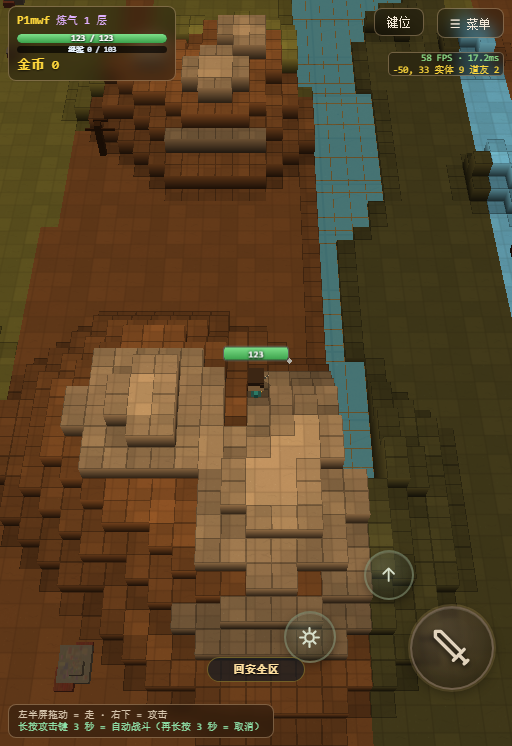
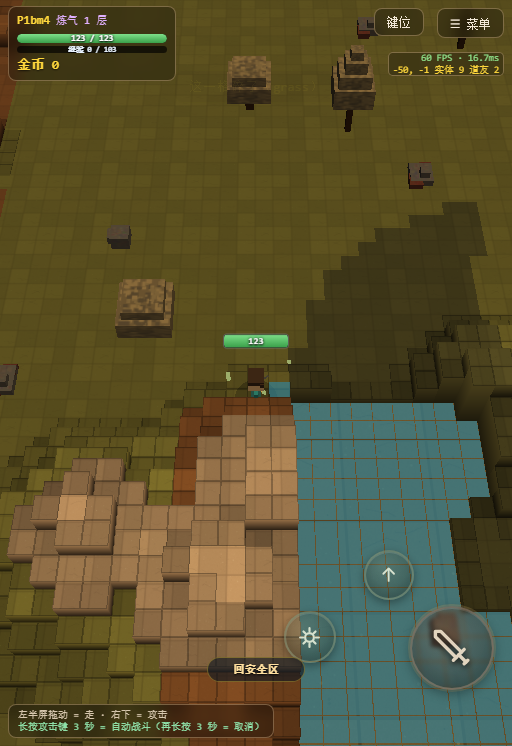
the spear throws what it hits into the air
Five percent at tier zero, rising to seventeen, and on trigger the target leaves the ground:
six levels up, one and a half seconds in the air, then down. Landing hits everything within
two metres, including whatever it landed on, using the same damage as the swing that launched
it.

The mob carries two new fields for this, and the landing damage is stored there rather than
passed through a queue, because the mob's own tick is what brings it down.

Both ends are broadcast - the launch so other players see it go up, the landing so everyone
within forty metres hears the impact. The landing reuses the footstep sound, which is already
the impact sound for everything else.

diff --git a/web/platform/web.js b/web/platform/web.js
@@ -5154,6 +5154,19 @@ function wsOnMessage(raw) {
     /* ★★★ round398（用户："这些动画要做同步，不然别人看不到"）★★★
        ★ 服务端现在会把特效广播给周围 ✗ 带上 by = 谁在放 ✓
        ★ 不是我就记到那个玩家身上 ✗ 渲染时按他的状态播 ✓ */
+    /* ★ round404（用户："长枪挑飞，落地加落地音效"）*/
+    if (d.kind === 'launch') {
+      if (typeof NET !== 'undefined' && NET.rmobs && NET.rmobs[d.mid]) {
+        NET.rmobs[d.mid].flyUntil = performance.now() + 1500;
+        NET.rmobs[d.mid].flyH = 6 * 0.62;
+      }
+      return;
+    }
+    if (d.kind === 'land') {
+      if (typeof sfx === 'function') { sfx('land', 1.0); }
+      if (typeof hitFlash === 'function') { hitFlash(+d.x, 0.4, +d.z, true); }
+      return;
+    }
     /* ★ round400：别人打的伤害 → 弹一个灰色数字 */
     if (d.kind === 'dmg') {
       var _dmgTxt = String(+d.v || 0) + (d.crit ? ' 暴击' : '');

diff --git a/web/core/game.js b/web/core/game.js
@@ -4786,7 +4786,12 @@ function netUpdate(dt) {
       var _k = Math.min(1, dt * 22);
       rm.g.position.x += (rx - rm.g.position.x) * _k;
       rm.g.position.z += (rz - rm.g.position.z) * _k;
-      rm.g.position.y = _jy;
+      /* ★ round404：被挑飞的怪要升空（抛物线：1.5 秒一个来回 ✓）*/
+    if (rm.flyUntil && performance.now() < rm.flyUntil) {
+      var _fk2 = (rm.flyUntil - performance.now()) / 1500;   // 1 → 0
+      _jy += Math.sin(_fk2 * Math.PI) * (rm.flyH || 3.7);
+    }
+    rm.g.position.y = _jy;
     }
     rm.g.rotation.y = rm.cur.yaw;
     if (rm.shadow) {

diff --git a/server/world.py b/server/world.py
@@ -866,6 +866,7 @@ class World(object):
                 self._party_push(pid)        # ★ 每秒补推一次（血条要动 ✓）
         self._mob_tick(TICK_DT)
         self._later_tick()
+        self._fly_tick()
         self._arrow_tick(TICK_DT)   # ★ 第 69 轮：箭（要在僵尸移动之后算 ✓）
         self._loot_tick(TICK_DT)          # ★ 地上掉的也归 tick 线程管 ✓
         for p in self.players.values():
@@ -1733,6 +1734,36 @@ class World(object):
                     self._send_cid(_q.cid, P.pack('fx', **payload))
                 except Exception:
                     pass
+
+    def _fly_tick(self):
+        """被挑飞的怪：1.5 秒后落地 ✗ 落地砸出范围伤害（round404）"""
+        for m in list(self.mobs.values()):
+            if getattr(m, 'flyT', 0) <= 0:
+                continue
+            m.flyT -= TICK_DT
+            if m.flyT > 0:
+                continue
+            # ★ 落地：周围 2 米内所有怪吃一份伤害（包括它自己 ✓）
+            _d = int(getattr(m, 'latDmg', 0) or 10)
+            _r2 = 2.0 * 2.0
+            for o in list(self.mobs.values()):
+                if o.hp <= 0:
+                    continue
+                if (o.x - m.x) ** 2 + (o.z - m.z) ** 2 > _r2:
+                    continue
+                o.hp -= _d
+                self._report_hit(None, o.mid, _d, False, o.x, o.z, {'splash': True})
+                if o.hp <= 0:
+                    o.hp = 0
+            # ★ 广播落地（客户端放落地音效 ✓）
+            for _q in self.players.values():
+                if (_q.x - m.x) ** 2 + (_q.z - m.z) ** 2 <= 1600:
+                    try:
+                        self._send_cid(_q.cid, P.pack('fx', kind='land',
+                                                      x=round(m.x, 2), z=round(m.z, 2)))
+                    except Exception:
+                        pass
+            m.flyT = 0.0
 
     def _later_tick(self):
         """到点结算的延迟【伤害】和延迟【发射】（round382 / 391 ✓）
@@ -4444,6 +4475,13 @@ class World(object):
                 m.stunT = fx['value']
                 m.stunImmune = weapons.STUN_IMMUNE
                 self._send_cid(p.cid, P.pack('fx', kind='stun', mid=m.mid))
+        elif nm == '挑飞':
+            # ★ round404（用户："长枪把敌人挑到 6 格高，1.5 秒后落地，落地范围伤害"）
+            m.flyT = 1.5
+            m.flyH = max(2.0, float(fx['value']))
+            m.latDmg = int(dv)                # ★ 落地伤害按这一次的伤害算 ✓
+            self._fx_broadcast(p, {'kind': 'launch', 'mid': m.mid,
+                                   'by': p.role_id})
         elif nm == '连砍':
             # ★ round395（用户："向前挥砍 2~13 刀，每刀 60%，一刀一步"）
             #   ★ 第一刀刚才已经结算了（也压到 60% ✓）→ 这里只补后面的 N-1 刀 ✓

diff --git a/server/mobs.py b/server/mobs.py
@@ -245,7 +245,9 @@ class Mob(object):
                   #   ★ 教训：给 __slots__ 的类加属性 ✗ 必须两边一起改 ✓
                   'lavaT',
                   # ★ round350：逃跑音效只播一次的标记
-                  'fleeSnd' )
+                  'fleeSnd',
+                  # ★ round404：长枪挑飞（flyT = 还要飞多久 · flyH = 多高）
+                  'flyT', 'flyH', 'latDmg' )
 
     def __init__(self, mid, lv, x, z, kind=None):
         # ★ 第 132 轮：硬配额 —— 这只僵尸是【替谁刷的】✓
@@ -254,6 +256,9 @@ class Mob(object):
         self.awarded = False    # 第 217 轮：结算标记（只给一次经验）
         self.lavaT = 0.0        # ★ round322：地火烫伤的计时
         self.fleeSnd = False    # ★ round350：逃跑音效播过没有
+        self.flyT = 0.0         # ★ round404：还要飞多久（秒）
+        self.flyH = 0.0         # 飞多高（格）
+        self.latDmg = 0         # ★ 落地时砸多少伤害
         self.mid = str(mid)
         self.kind = kind or random.choice(KINDS)
         self.lv = int(lv)

diff --git a/server/weapons.py b/server/weapons.py
@@ -299,7 +299,9 @@ WEAPON_FX = {
     # round392: 长棍改为直线横扫（用户要求）
     #   概率 10% -> 55%（每阶 +4.09%）· 直线 4 -> 10 米（每阶 +0.545）
     'staff':  ('横扫',   0.10, 0.0409, 4.0, 0.545, 'flat',  '{p}% 概率横扫 · 前方 {v} 米直线伤害并击退'),
-    'spear':  ('贯穿',   0.45, 0.020, 2,    0.000, 'int',  '{p}% 概率贯穿 · 最多打中 {v} 个'),
+    # round404: 长枪改为挑飞（用户要求）
+    #   概率 5% -> 17%（每阶 +1.09%）· 挑到 6 格高，1.5 秒后落地
+    'spear':  ('挑飞',   0.05, 0.0109, 6,   0.000, 'int',  '{p}% 概率挑飞 · 挑到 {v} 格高，落地时砸出范围伤害'),
     'axe':    ('溅射',   1.00, 0.000, 0.35, 0.020, 'pct',  '命中时溅射 1.5 米内最多 2~13 个（品阶越高越多，1 阶 2 个 · 每阶 +1 · 12 阶 13 个）· 各 {v}% 伤害'),
     # round381: 锤子改为旋击（用户要求）
     #   概率：基础 10% · 每阶 +2.73% · 12 阶（t 封顶 11）到 40%
